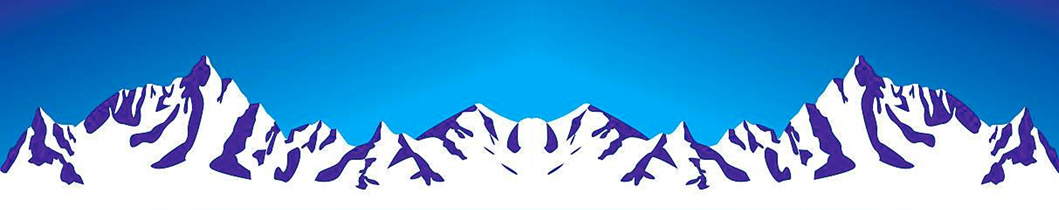
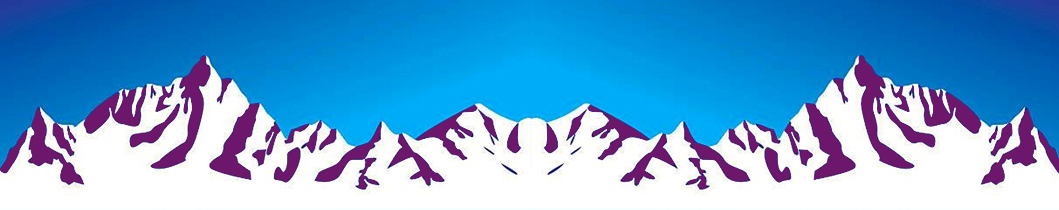
commit

Changed region(s): [[0.0, 0.2571, 1.0, 0.9143]]

diff --git a/zen-garden/cover-sample/style.css b/zen-garden/cover-sample/style.css
@@ -1,9 +1,8 @@
 body {
     background-color: darkseagreen;
-    background-image: linear-gradient(white, white, lemonchiffon, darkseagreen, darkseagreen, lemonchiffon, white);
+    background-image: linear-gradient(white, white, lemonchiffon, darkseagreen, darkseagreen, lemonchiffon, purple);
     max-width: 900px;
     margin: auto;
-    max-height: 100%;
 }
 
 #banner {
